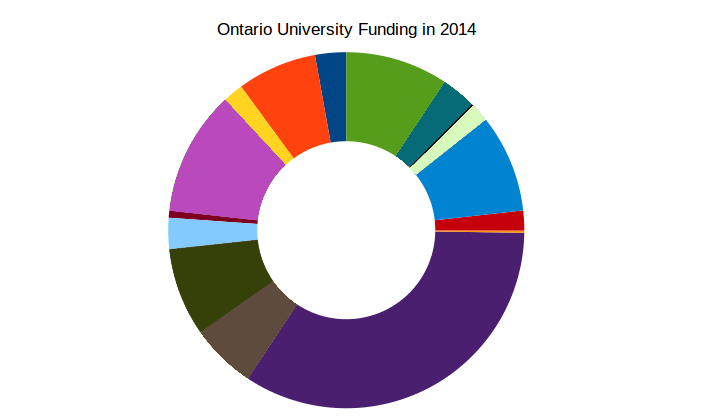
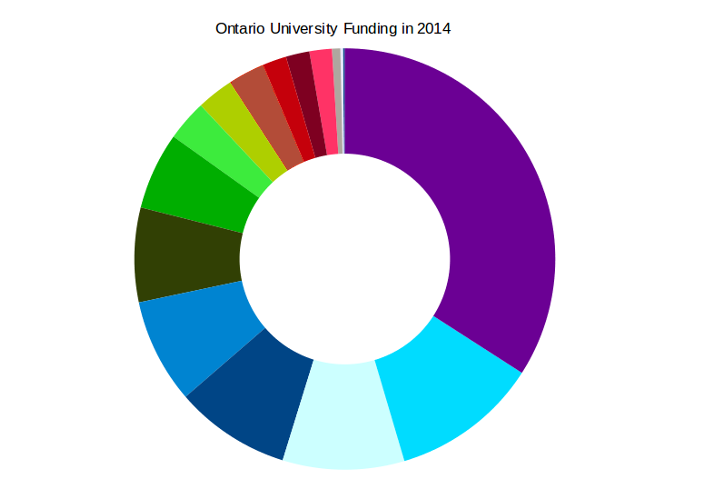
fixing graph groupings

diff --git a/university_funding/index.html b/university_funding/index.html
@@ -27,22 +27,22 @@
         			 	<div class="headBoxLt col-md-9">
         			 		<img src="./graph.png" id="graphImg" usemap="#graphmap" >
         			 		<map name="graphmap">
-							  	<area alt="University of Toronto" title="UofT" id="mpToronto" shape="poly" coords="250,378,298,308,335,320,373,316,407,298,426,272,435,248,436,233,524,236,518,271,494,332,462,365,394,402,329,407,290,400" style="outline:none;">
-							  	<area id="mpTrent" alt="trent" title="trent" shape="poly" coords="436,232,436,230,523,230,524,236" style="outline:none;">
-								<area id="mpOntario" alt="ontario" title="Ontario Institute" shape="poly" coords="522,229,520,210,434,220,436,230" style="outline:none;">
-								<area id="mpWaterloo" alt="waterloo" title="waterloo" shape="poly" coords="521,210,509,162,484,122,416,176,436,218" style="outline:none;">
-								<area id="mpWestern" alt="western" title="western" shape="poly" coords="409,167,416,174,484,120,472,107" style="outline:none;" >
-								<area id="mpGuelph" alt="guelph" title="guelph" shape="poly" coords="329,141,311,147,293,157,242,87,260,74,287,64,312,56" style="outline:none;" >
-								<area id="mpLakehead" alt="lakehead" title="lakehead" shape="poly" coords="292,157,285,163,225,101,241,89" style="outline:none;">
-								<area id="mpMaster" alt="McMaster" title="McMaster" shape="poly" coords="257,220,262,196,273,178,284,165,224,101,205,123,189,149,178,173,171,194,169,209" style="outline:none;" >
-								<area id="mpBrock" alt="brock" title="brock" shape="poly" coords="345,140,331,142,315,55,345,53" style="outline:none;">
-								<area id="mpLaurier" alt="laurier" title="laurier" shape="poly" coords="411,167,409,165,470,104,474,110" style="outline:none;" >
-								<area id="mpWindsor" alt="windsor" title="windsor" shape="poly" coords="396,155,409,166,471,104,444,83" style="outline:none;">
-								<area id="mpYork" alt="york university" title="york" shape="poly" coords="396,155,376,145,361,141,347,141,346,53,374,56,393,59,411,66,429,73,444,82" style="outline:none;">
-								<area id="mpOcad" alt="OCAD University" title="ocad" shape="poly" coords="255,224,256,221,169,210,170,218" style="outline:none;">
-								<area id="mpOttawa" alt="University of Ottawa" title="ottawa" shape="poly" coords="257,239,256,223,169,218,170,248" style="outline:none;">
-								<area id="mpQueens" alt="Queen's University" title="queens" shape="poly" coords="270,280,261,262,256,241,170,250,175,278,186,307,202,331" style="outline:none;">
-								<area id="mpRyerson" alt="Ryerson University" title="ryerson" shape="poly" coords="271,282,282,296,295,306,248,377,231,365,217,350,202,333" style="outline:none;">
+							  	<area id="mpToronto" alt="University of Toronto" title="UofT" shape="poly" coords="345,153,345,49,421,64,473,94,514,138,542,184,551,243,546,318,520,371,434,315,448,278,449,236,427,193,383,160" style="outline:none;">
+								<area id="mpMaster" alt="McMaster University" title="McMaster" shape="poly" coords="520,374,434,317,406,345,376,360,405,461,453,441,495,407" style="outline:none;">
+								<area id="mpYork" alt="York University" title="York" shape="poly" coords="283,462,314,358,343,366,371,360,404,462,343,471" style="outline:none;">
+								<area id="mpWaterloo" alt="University of Waterloo" title="Waterloo" shape="poly" coords="265,328,284,347,312,360,282,459,238,441,203,413,187,396" style="outline:none;">
+								<area id="mpQueens" alt="Queen's University" title="Queens" shape="poly" coords="240,283,249,310,262,328,186,397,153,349,138,304" style="outline:none;">
+								<area id="mpGuelph" alt="University of Guelph" title="Guelph" shape="poly" coords="240,278,238,258,242,235,140,207,134,249,135,282,138,302" style="outline:none;">
+								<area id="mpRyerson" alt="Ryerson University" title="Ryerson" shape="poly" coords="241,233,247,216,259,199,173,139,153,175,141,205" style="outline:none;">
+								<area id="mpWindsor" alt="University of Windsor" title="Windsor" shape="poly" coords="258,196,273,181,203,106,174,137" style="outline:none;">
+								<area id="mpOttawa" alt="University of Ottawa" title="Ottawa" shape="poly" coords="271,181,286,170,230,82,201,106" style="outline:none;">
+								<area id="mpBrock" alt="Brock University" title="Brock" shape="poly" coords="288,168,303,162,263,67,230,83" style="outline:none;">
+								<area id="mpLakehead" alt="Lakehead University" title="Lakehead" shape="poly" coords="303,161,316,155,285,58,260,68" style="outline:none;">
+								<area id="mpWestern" alt="Western University" title="Western" shape="poly" coords="327,155,337,153,332,50,308,53" style="outline:none;">
+								<area id="mpOntario" alt="University of Ontario Institute of Technology" title="Ontario Institute" href="" shape="poly" coords="316,156,327,153,309,52,285,58" style="outline:none;">
+								<area id="mpOcad" alt="OCAD University" title="OCAD" shape="poly" coords="338,153,336,153,332,49,340,48" style="outline:none;">
+								<area id="mpTrent" alt="Trent University" title="Trent" shape="poly" coords="342,152,341,152,340,49,343,48" style="outline:none;">
+								<area id="mpWilfrid" alt="Wilfrid Laurier" title="Wilfrid" shape="poly" coords="343,48,344,152,345,151" style="outline:none;">
 							</map>
 							<div class="headBoxSub">
 								<h4 id="schoolName"></h4>

diff --git a/university_funding/style.css b/university_funding/style.css
@@ -10,7 +10,7 @@ h1{
 @media screen and (min-width: 760px) {
 	#graphImg{
 		width:690px;
-		height:417px;
+		height:489px;
 	}
 }
 @media only screen and (max-width: 480px) {
@@ -27,11 +27,10 @@ h1{
 }
 
 .headBoxLt{
-	height:430px;
 	margin-bottom:20px;
 	border-radius:5px;
 	border:1px solid lightgray;
-	background-color: white;
+	background-color:white;
 }
 .headBoxSub{
 	width:200px;
